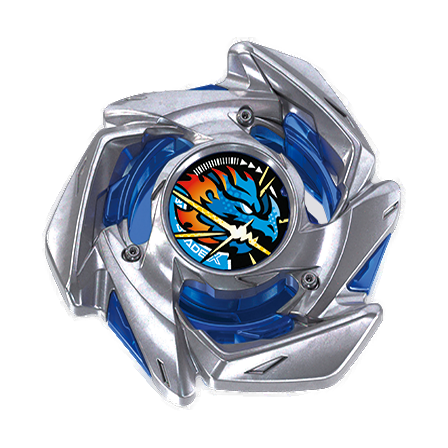
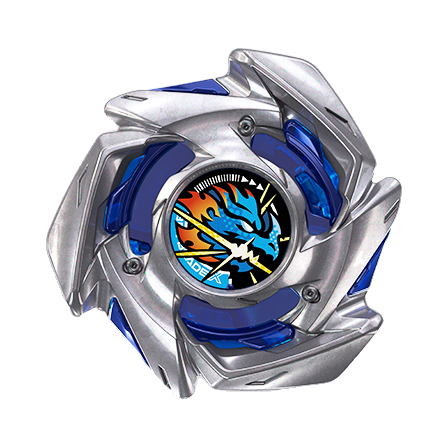
fix: replace Dran Strike and Glory Valkyrion fronts

diff --git a/scripts/process-x-images.py b/scripts/process-x-images.py
@@ -112,6 +112,7 @@ def process_image(
     keep_largest_component: bool = False,
     source_scale: float = 1.0,
     alpha_matting: bool = True,
+    preserve_source_pixels: bool = False,
 ) -> None:
     original = Image.open(source).convert("RGB")
     if source_crop:
@@ -184,7 +185,10 @@ def process_image(
         keep = cv2.dilate(keep, np.ones((9, 9), np.uint8), iterations=1)
         alpha = np.where(keep, alpha, 0).astype(np.uint8)
     alpha[alpha <= 8] = 0
-    rgba[:, :, 3] = alpha
+    if preserve_source_pixels:
+        rgba = np.dstack((np.asarray(original), alpha))
+    else:
+        rgba[:, :, 3] = alpha
     result = center_on_fixed_canvas(Image.fromarray(rgba, "RGBA"), alpha)
     destination.parent.mkdir(parents=True, exist_ok=True)
     result.save(
@@ -320,6 +324,28 @@ def validate_entries(
             raise ValueError(f"{entry['id']}: insufficient transparent padding {margins}")
         if abs(margins[0] - margins[2]) > 1 or abs(margins[1] - margins[3]) > 1:
             raise ValueError(f"{entry['id']}: foreground is not centered {margins}")
+        if entry.get("sourceForegroundBox"):
+            if entry.get("sourceCrop") or entry.get("sourceScale", 1.0) != 1.0:
+                raise ValueError(
+                    f"{entry['id']}: source pixel audit requires an uncropped 1:1 source"
+                )
+            source_left, source_top, source_right, source_bottom = entry[
+                "sourceForegroundBox"
+            ]
+            with Image.open(source) as source_image:
+                source_rgb = np.asarray(source_image.convert("RGB"))[
+                    source_top:source_bottom,
+                    source_left:source_right,
+                ]
+            output_rgba = np.asarray(rgba)
+            output_crop = output_rgba[y_min:y_max + 1, x_min:x_max + 1]
+            if output_crop.shape[:2] != source_rgb.shape[:2]:
+                raise ValueError(
+                    f"{entry['id']}: source foreground box no longer matches output"
+                )
+            visible = output_crop[:, :, 3] > 3
+            if not np.array_equal(output_crop[:, :, :3][visible], source_rgb[visible]):
+                raise ValueError(f"{entry['id']}: source foreground RGB changed")
         print(f"[{index}/{len(entries)}] valid {entry['id']}", flush=True)
     print(f"validated {len(entries)} transparent X images")
     return 0
@@ -376,7 +402,7 @@ def main() -> int:
         )
 
     os.environ.setdefault("U2NET_HOME", str(Path(".cache/rembg-models").resolve()))
-    session, remove = load_rembg(args.model)
+    model_sessions = {}
     failures: list[tuple[str, str]] = []
     for index, entry in enumerate(entries, start=1):
         source = source_path(report, entry, args.source_cache)
@@ -385,6 +411,10 @@ def main() -> int:
             print(f"[{index}/{len(entries)}] skip {entry['id']}", flush=True)
             continue
         try:
+            model_name = entry.get("segmentationModel", args.model)
+            if model_name not in model_sessions:
+                model_sessions[model_name] = load_rembg(model_name)
+            session, remove = model_sessions[model_name]
             process_image(
                 source,
                 destination,
@@ -396,6 +426,7 @@ def main() -> int:
                 entry.get("keepLargestComponent", False),
                 entry.get("sourceScale", 1.0),
                 entry.get("alphaMatting", True),
+                entry.get("preserveSourcePixels", False),
             )
             print(f"[{index}/{len(entries)}] wrote {entry['id']}", flush=True)
         except Exception as error:  # keep the batch auditable

diff --git a/scripts/build-x-bey-angle-corrections.py b/scripts/build-x-bey-angle-corrections.py
@@ -18,6 +18,11 @@ SCALE_Y = 1.08
 METHOD = "premultiplied-alpha-vertical-affine"
 DEFAULT_CONFIG = Path("data/source/x-bey-angle-corrections.json")
 HEAVENS_RING_ID = "BEY-X-BX-50-01-HEAVENS-RING-0-80DS"
+SUPPLIED_FRONT_IDS = {
+    "BEY-X-BX-49-DRAN-STRIKE-4-50FF",
+    "BEY-X-UX-20-GLORY-VALKYRIE-LF",
+}
+CONFIG_VERSION = "20260805-x-bey-supplied-front-images"
 
 
 def parse_args() -> argparse.Namespace:
@@ -107,7 +112,11 @@ def initialize_config(audit_path: Path) -> dict:
     audit = json.loads(audit_path.read_text(encoding="utf-8"))
     entries = []
     for item in audit["items"]:
-        if item["classification"] != "official-mounted-blade-top" or item["id"] == HEAVENS_RING_ID:
+        if (
+            item["classification"] != "official-mounted-blade-top"
+            or item["id"] == HEAVENS_RING_ID
+            or item["id"] in SUPPLIED_FRONT_IDS
+        ):
             continue
         entries.append({
             "id": item["id"],
@@ -120,10 +129,10 @@ def initialize_config(audit_path: Path) -> dict:
             "method": METHOD,
             "scaleY": SCALE_Y,
         })
-    if len(entries) != 106:
-        raise ValueError(f"expected 106 angle corrections, found {len(entries)}")
+    if len(entries) != 104:
+        raise ValueError(f"expected 104 angle corrections, found {len(entries)}")
     return {
-        "version": "20260805-x-bey-front-angle-correction",
+        "version": CONFIG_VERSION,
         "method": METHOD,
         "entries": entries,
     }
@@ -136,7 +145,7 @@ def main() -> int:
         if args.initialize_from_audit
         else json.loads(args.config.read_text(encoding="utf-8"))
     )
-    if config["version"] != "20260805-x-bey-front-angle-correction":
+    if config["version"] != CONFIG_VERSION:
         raise ValueError("unexpected correction config version")
     if config["method"] != METHOD:
         raise ValueError("unexpected correction method")

diff --git a/scripts/record-x-image-alpha-review.py b/scripts/record-x-image-alpha-review.py
@@ -14,7 +14,7 @@ from PIL import Image
 CANVAS_SIZE = 448
 MIN_MARGIN = 6
 MAX_FOREGROUND_SIZE = CANVAS_SIZE - MIN_MARGIN * 2
-REVIEW_VERSION = "20260805-x-bey-front-angle-correction"
+REVIEW_VERSION = "20260805-x-bey-supplied-front-images"
 
 
 def parse_args() -> argparse.Namespace:
